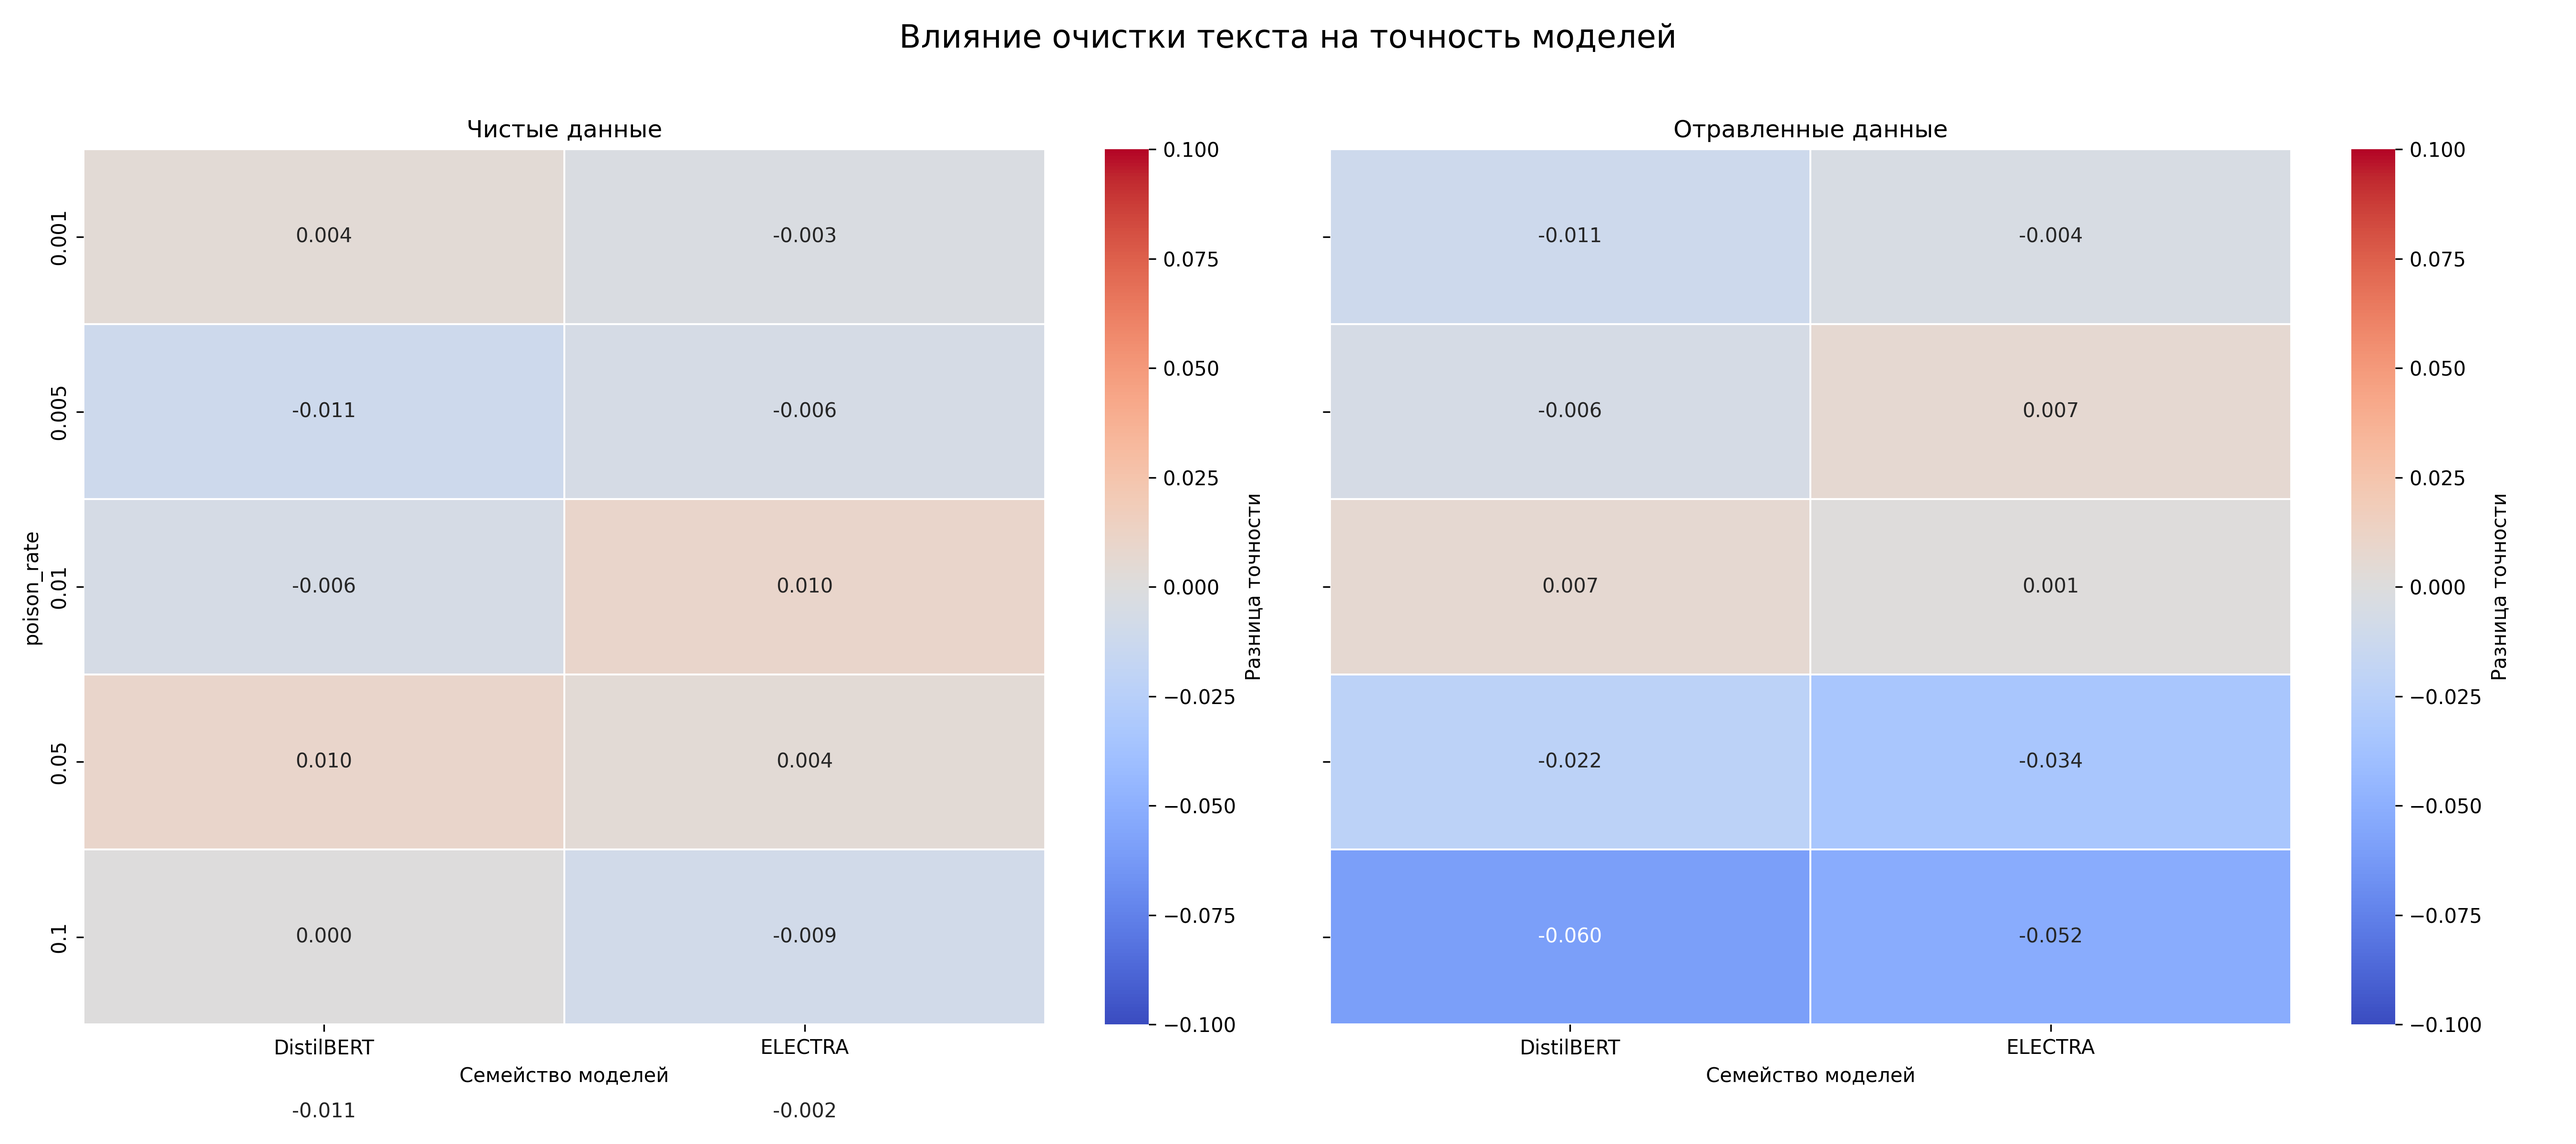
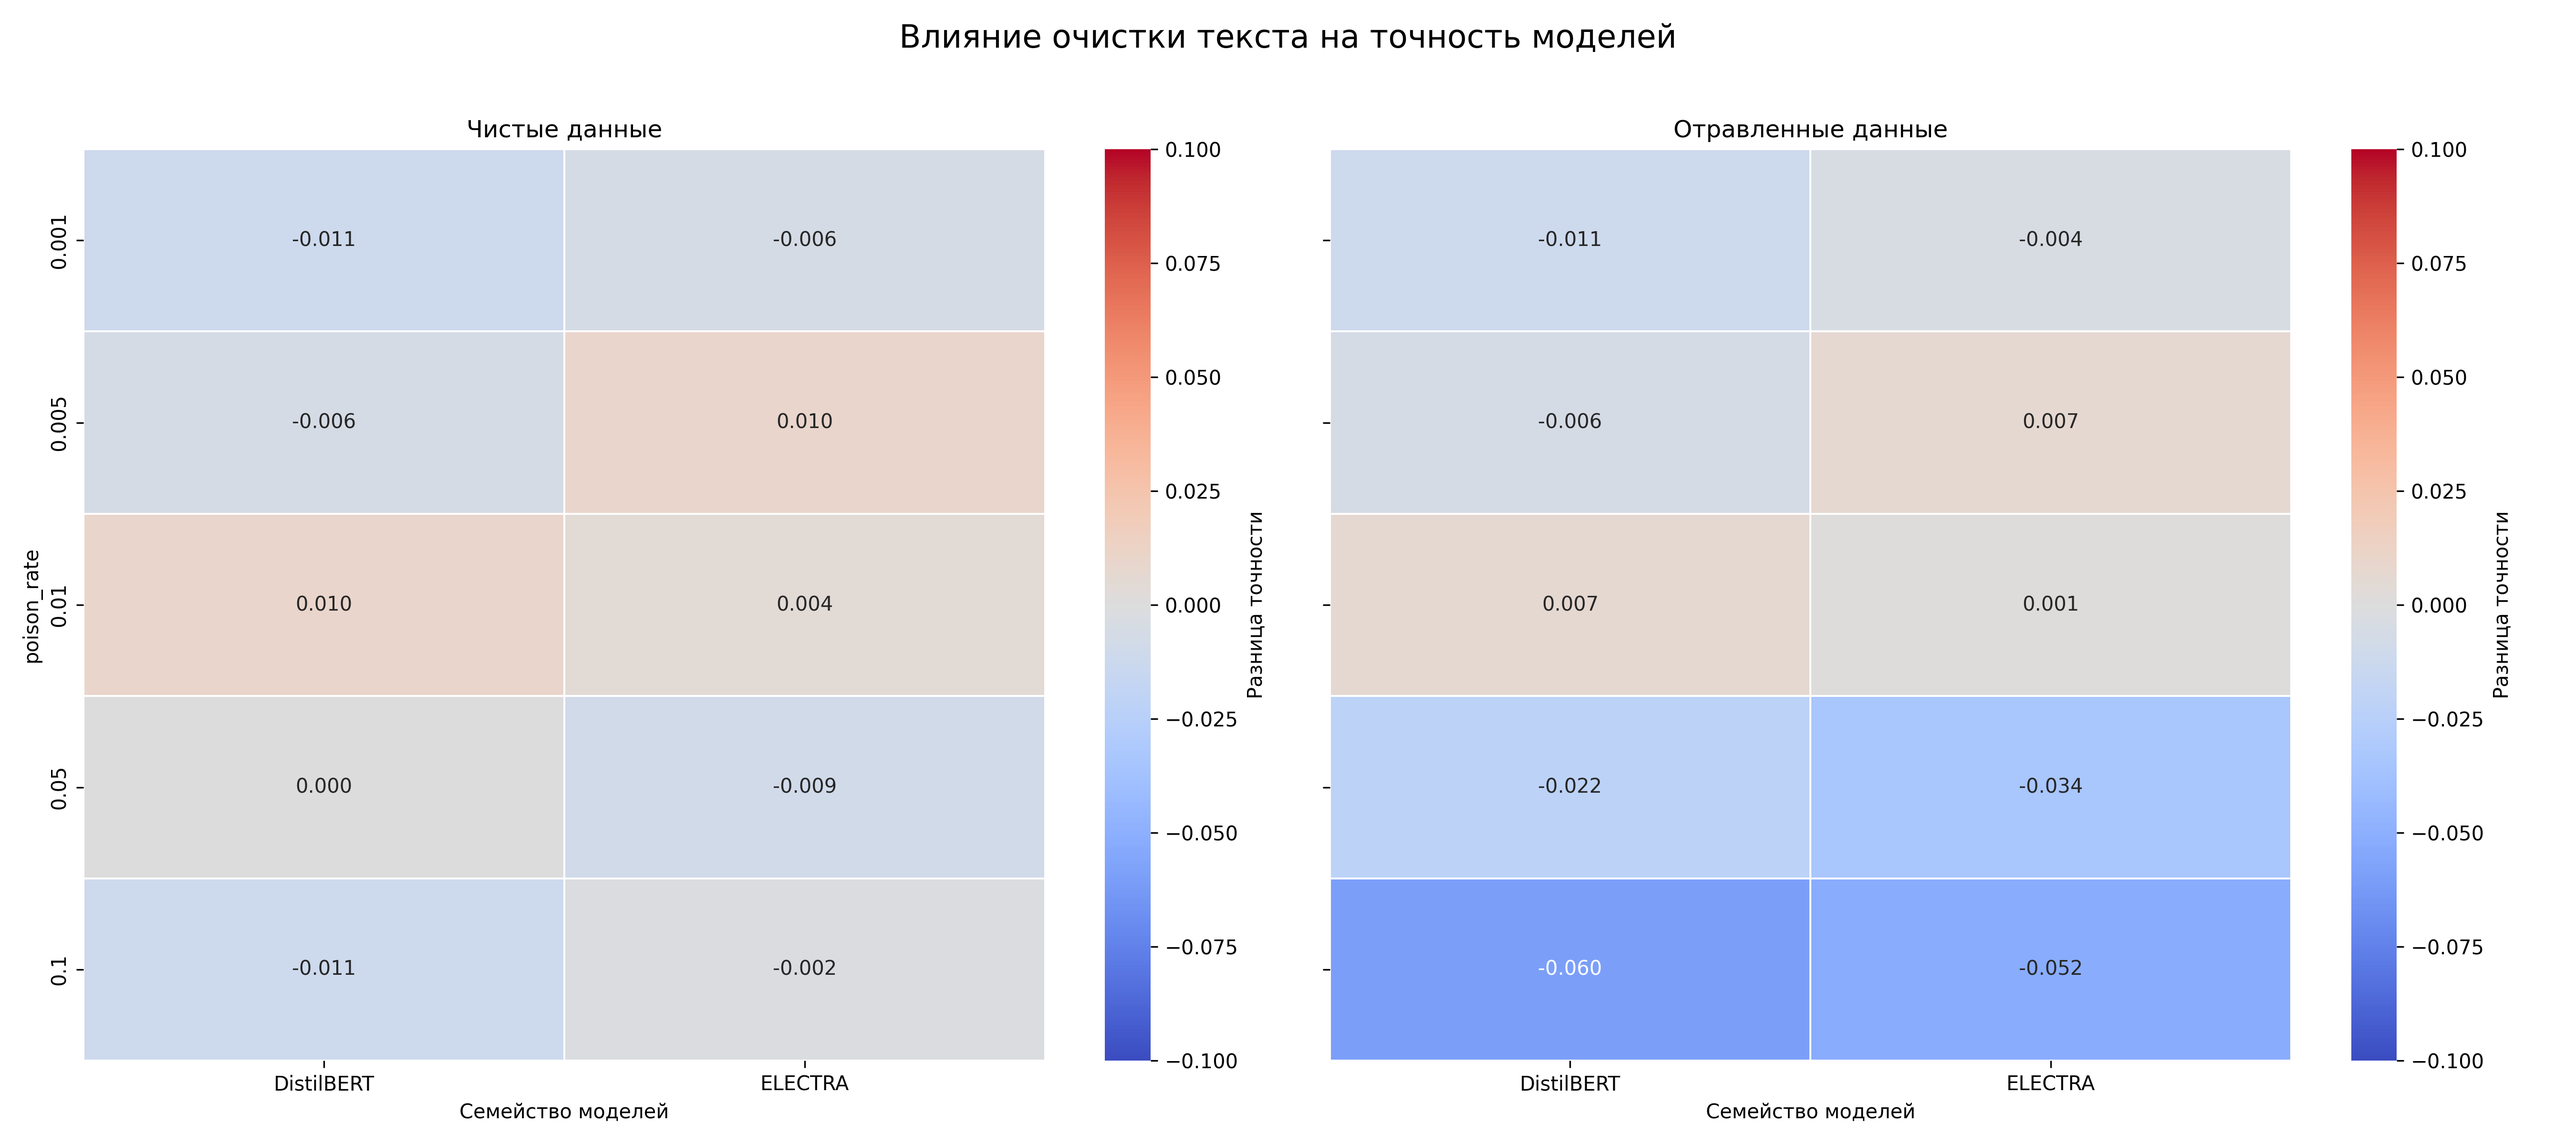
fix: dropped wrong data from heatmap, moved f0 and f1 on one row

diff --git a/src/graphics/graphics_total_comp.py b/src/graphics/graphics_total_comp.py
@@ -191,9 +191,9 @@ class BackdoorDefenseVisualizer:
         plt.figure(figsize=(14, 10))
         metrics = [
             ('accuracy', 'Точность (Accuracy)'),
+            ('macro_f1', 'Макросредняя F1 (Macro-F1)'),
             ('f1_0', 'F1-мера класса 0'),
-            ('f1_1', 'F1-мера класса 1'),
-            ('macro_f1', 'Макросредняя F1 (Macro-F1)')
+            ('f1_1', 'F1-мера класса 1')
         ]
 
         for i, (col, title) in enumerate(metrics, 1):
@@ -222,7 +222,7 @@ class BackdoorDefenseVisualizer:
                     )
 
         plt.suptitle('Сравнение производительности на отравленных данных\nдо и после очистки текста', fontsize=16)
-        plt.tight_layout(rect=[0, 0, 1, 0.96])
+        plt.tight_layout(rect=(0, 0, 1, 0.96))
 
         save_path = os.path.join(self.output_dir, 'poisoned_performance_comparison.png')
         plt.savefig(save_path, dpi=300)
@@ -285,7 +285,7 @@ class BackdoorDefenseVisualizer:
         if self.df is None:
             raise ValueError("Сначала выполните load_and_preprocess()")
 
-        clean_data = self.df[self.df['dataset_type'] == 'clean']
+        clean_data = self.df[(self.df['dataset_type'] == 'clean')&(self.df['poison_rate'] != 0.0)]
         poisoned_data = self.df[self.df['dataset_type'] == 'poisoned']
 
         if clean_data.empty or poisoned_data.empty:
@@ -353,7 +353,7 @@ class BackdoorDefenseVisualizer:
         axes[1].set_xlabel('Семейство моделей')
         axes[1].set_ylabel('')
 
-        plt.tight_layout(rect=[0, 0, 1, 0.96])
+        plt.tight_layout(rect=(0, 0, 1, 0.96))
 
         save_path = os.path.join(self.output_dir, 'defense_impact_heatmap.png')
         plt.savefig(save_path, dpi=300)
